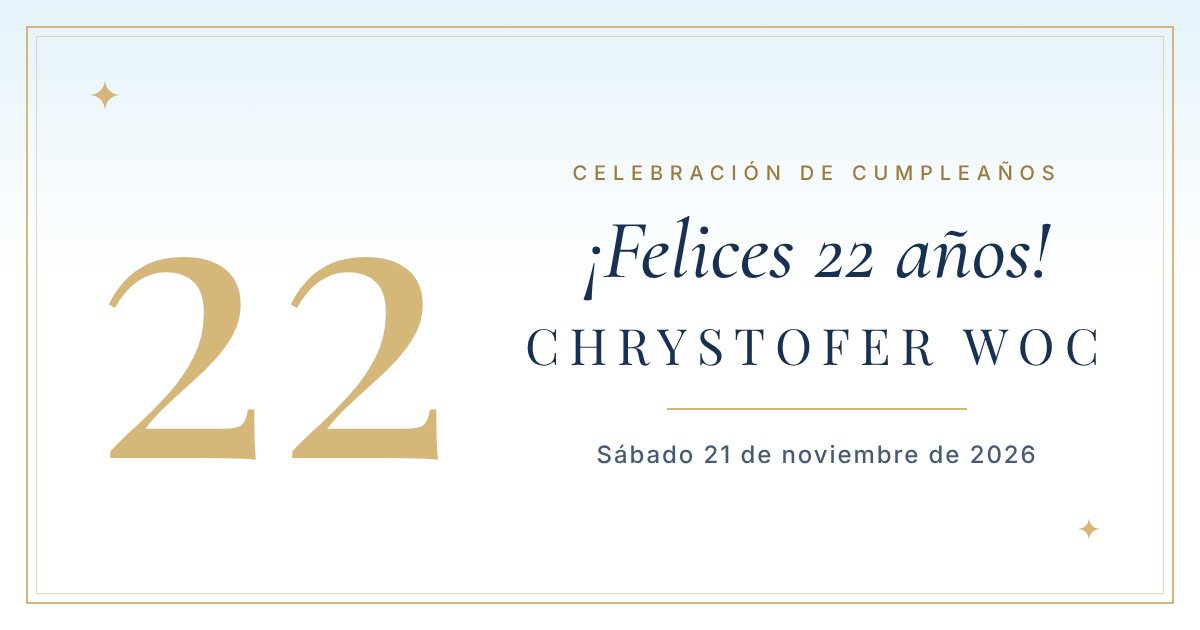
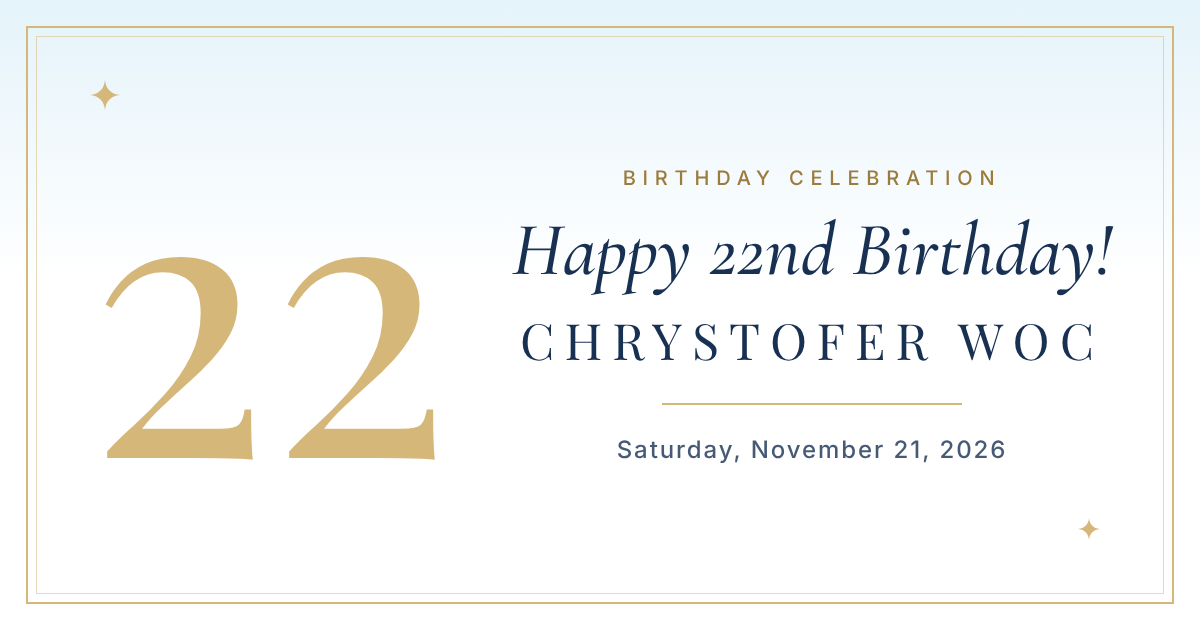
Traducir la invitación al inglés
- Todos los textos visibles, el cuento, botones, etiquetas y textos de
  accesibilidad pasan a inglés (EE. UU.); fecha y hora en ese formato.
- Metadatos e imagen de vista previa (Open Graph) en inglés; lang="en".
- El título y el mensaje que se envían al compartir, y el pie de página,
  pasan a ser textos configurables (shareTitle, shareMessage, footer).
- El editor y el README siguen en español.

Claude-Session: https://claude.ai/code/session_01TGcThTLcFVeeQvFGzjAhxg

diff --git a/src/components/Invitation.tsx b/src/components/Invitation.tsx
@@ -69,20 +69,20 @@ export default function Invitation({ content }: { content: Content }) {
         {/* 2 · LOS PRIMEROS AÑOS -------------------------------------- */}
         <section className="bg-cream px-5 py-20">
           <Reveal className="mx-auto max-w-xl text-center">
-            <p className="eyebrow">Los primeros años</p>
+            <p className="eyebrow">The early years</p>
             <h2 className="section-title mt-3">{t.earlyTitle}</h2>
             <Divider className="my-6" />
             <p className="lead">{t.earlyText}</p>
           </Reveal>
           <Reveal className="-mx-5 mt-10">
-            <Carousel photos={early} label="Fotografías de sus primeros años" hint={t.carouselHint} />
+            <Carousel photos={early} label="Photos from his early years" hint={t.carouselHint} />
           </Reveal>
         </section>
 
         {/* 3 · CRECIENDO ENTRE RECUERDOS ------------------------------ */}
         <section className="bg-white py-20">
           <Reveal className="mx-auto max-w-xl px-5 text-center">
-            <p className="eyebrow">Creciendo entre recuerdos</p>
+            <p className="eyebrow">Memories of growing up</p>
             <h2 className="section-title mt-3">{t.growingTitle}</h2>
             <Divider className="my-6" />
             <p className="lead">{t.growingText}</p>
@@ -117,7 +117,7 @@ export default function Invitation({ content }: { content: Content }) {
                       )}
                     </div>
                     <div className="mt-5 pb-10">
-                      <Carousel photos={list} label={`Fotografías: ${group.title}`} hint={t.carouselHint} />
+                      <Carousel photos={list} label={`Photos: ${group.title}`} hint={t.carouselHint} />
                     </div>
                   </Reveal>
                 </li>
@@ -129,13 +129,13 @@ export default function Invitation({ content }: { content: Content }) {
         {/* 4 · SUEÑOS Y NUEVOS CAMINOS -------------------------------- */}
         <section className="bg-gradient-to-b from-sky/45 via-cream to-cream py-20">
           <Reveal className="mx-auto max-w-xl px-5 text-center">
-            <p className="eyebrow">Sueños y nuevos caminos</p>
+            <p className="eyebrow">Dreams and new paths</p>
             <h2 className="section-title mt-3">{t.dreamsTitle}</h2>
             <Divider className="my-6" />
             <p className="lead">{t.dreamsText}</p>
           </Reveal>
           <Reveal className="mt-10">
-            <Carousel photos={current} label="Fotografías de su etapa actual" hint={t.carouselHint} />
+            <Carousel photos={current} label="Photos of him today" hint={t.carouselHint} />
           </Reveal>
           {t.story3 && (
             <Reveal className="mx-auto mt-14 max-w-md px-6">
@@ -186,13 +186,13 @@ export default function Invitation({ content }: { content: Content }) {
                 <p className="lead mx-auto max-w-sm">{t.inviteText}</p>
 
                 <dl className="mx-auto mt-9 max-w-xs space-y-6 text-center">
-                  <Detail icon={<CalendarDays className="h-5 w-5" />} label="Fecha" value={event.dateLabel} />
+                  <Detail icon={<CalendarDays className="h-5 w-5" />} label="Date" value={event.dateLabel} />
                   {event.time.trim() && (
-                    <Detail icon={<Clock className="h-5 w-5" />} label="Hora" value={event.time} />
+                    <Detail icon={<Clock className="h-5 w-5" />} label="Time" value={event.time} />
                   )}
                   <Detail
                     icon={<MapPin className="h-5 w-5" />}
-                    label="Lugar"
+                    label="Place"
                     value={event.venue}
                     extra={event.address}
                   />
@@ -208,9 +208,9 @@ export default function Invitation({ content }: { content: Content }) {
                     )}`}
                   >
                     <Navigation className="h-4 w-4" aria-hidden="true" />
-                    Cómo llegar
+                    Get directions
                   </a>
-                  <ShareButton title={`${celebrant.name} — ¡${celebrant.age} años!`} text={t.inviteTitle} />
+                  <ShareButton title={t.shareTitle} text={t.shareMessage} />
                 </div>
 
                 <p className="mt-10 font-serif text-xl italic leading-snug text-navy">{t.inviteClosing}</p>
@@ -218,7 +218,7 @@ export default function Invitation({ content }: { content: Content }) {
             </div>
           </Reveal>
           <p className="mt-10 text-center font-sans text-[0.7rem] uppercase tracking-[0.3em] text-navy/40">
-            {celebrant.name} · {celebrant.age} años
+            {t.footer}
           </p>
         </section>
       </main>
@@ -297,7 +297,7 @@ function ShareButton({ title, text }: { title: string; text: string }) {
   return (
     <button type="button" onClick={share} className="btn-outline">
       {copied ? <Check className="h-4 w-4" aria-hidden="true" /> : <Share2 className="h-4 w-4" aria-hidden="true" />}
-      <span aria-live="polite">{copied ? 'Enlace copiado' : 'Compartir invitación'}</span>
+      <span aria-live="polite">{copied ? 'Link copied' : 'Share invitation'}</span>
     </button>
   )
 }

diff --git a/src/components/Gallery.tsx b/src/components/Gallery.tsx
@@ -47,7 +47,7 @@ export function LightboxProvider({ children }: { children: ReactNode }) {
         <div
           role="dialog"
           aria-modal="true"
-          aria-label="Fotografía en pantalla completa"
+          aria-label="Full-screen photo"
           className="lb-in fixed inset-0 z-50 flex flex-col bg-[#0d1c30]/95"
           onClick={close}
           onTouchStart={(e) => (touch.current = { x: e.touches[0].clientX, y: e.touches[0].clientY })}
@@ -67,7 +67,7 @@ export function LightboxProvider({ children }: { children: ReactNode }) {
             <button
               autoFocus
               onClick={close}
-              aria-label="Cerrar"
+              aria-label="Close"
               className="flex h-12 w-12 items-center justify-center rounded-full text-white hover:bg-white/10"
             >
               <X className="h-7 w-7" />
@@ -77,21 +77,21 @@ export function LightboxProvider({ children }: { children: ReactNode }) {
             <img
               key={photo.id}
               src={photo.src}
-              alt={photo.title || 'Fotografía'}
+              alt={photo.title || 'Photo of Chrystofer'}
               className="lb-zoom max-h-full max-w-full object-contain"
               onClick={(e) => e.stopPropagation()}
             />
             {many && (
               <>
                 <button
-                  aria-label="Fotografía anterior"
+                  aria-label="Previous photo"
                   onClick={(e) => (e.stopPropagation(), step(-1))}
                   className="absolute left-2 top-1/2 flex h-12 w-12 -translate-y-1/2 items-center justify-center rounded-full bg-black/30 text-white hover:bg-black/50"
                 >
                   <ChevronLeft />
                 </button>
                 <button
-                  aria-label="Fotografía siguiente"
+                  aria-label="Next photo"
                   onClick={(e) => (e.stopPropagation(), step(1))}
                   className="absolute right-2 top-1/2 flex h-12 w-12 -translate-y-1/2 items-center justify-center rounded-full bg-black/30 text-white hover:bg-black/50"
                 >
@@ -151,12 +151,12 @@ export function PhotoFrame({
       <button
         type="button"
         onClick={() => open(photos, index)}
-        aria-label={`Ampliar fotografía${photo.title ? `: ${photo.title}` : ''}`}
+        aria-label={`Enlarge photo${photo.title ? `: ${photo.title}` : ''}`}
         className="frame block w-full cursor-zoom-in transition-transform duration-200 active:scale-[0.98]"
       >
         <img
           src={photo.src}
-          alt={photo.title || 'Fotografía de Chrystofer'}
+          alt={photo.title || 'Photo of Chrystofer'}
           width={photo.width}
           height={photo.height}
           loading={eager ? 'eager' : 'lazy'}
@@ -255,7 +255,7 @@ export function Carousel({
         ))}
       </div>
       <div className="mt-2 flex items-center justify-center gap-4 px-4">
-        <button type="button" onClick={() => go(active - 1)} disabled={active === 0} aria-label="Fotografía anterior" className={arrow}>
+        <button type="button" onClick={() => go(active - 1)} disabled={active === 0} aria-label="Previous photo" className={arrow}>
           <ChevronLeft className="h-5 w-5" />
         </button>
         <div className="flex items-center gap-1.5" aria-hidden="true">
@@ -270,7 +270,7 @@ export function Carousel({
           type="button"
           onClick={() => go(active + 1)}
           disabled={active === photos.length - 1}
-          aria-label="Fotografía siguiente"
+          aria-label="Next photo"
           className={arrow}
         >
           <ChevronRight className="h-5 w-5" />
@@ -289,7 +289,7 @@ export function Carousel({
         </p>
       )}
       <p className="sr-only" aria-live="polite">
-        Fotografía {active + 1} de {photos.length}
+        Photo {active + 1} of {photos.length}
       </p>
     </div>
   )

diff --git a/index.html b/index.html
@@ -1,23 +1,23 @@
 <!doctype html>
-<html lang="es">
+<html lang="en">
   <head>
     <meta charset="UTF-8" />
     <meta name="viewport" content="width=device-width, initial-scale=1, viewport-fit=cover" />
-    <title>Chrystofer Woc — ¡22 años!</title>
-    <meta name="description" content="22 años de recuerdos, sueños y momentos inolvidables. Acompáñanos a celebrar el cumpleaños de Chrystofer Woc." />
+    <title>Chrystofer Woc Turns 22!</title>
+    <meta name="description" content="22 years of memories, dreams, and unforgettable moments. Join us in celebrating Chrystofer Woc’s birthday." />
     <meta name="theme-color" content="#F8F6F2" />
     <link rel="icon" type="image/svg+xml" href="./favicon.svg" />
 
     <meta property="og:type" content="website" />
-    <meta property="og:locale" content="es_GT" />
-    <meta property="og:title" content="Chrystofer Woc — ¡22 años!" />
-    <meta property="og:description" content="22 años de recuerdos, sueños y momentos inolvidables. Sábado 21 de noviembre de 2026." />
+    <meta property="og:locale" content="en_US" />
+    <meta property="og:title" content="Chrystofer Woc Turns 22!" />
+    <meta property="og:description" content="22 years of memories, dreams, and unforgettable moments. Saturday, November 21, 2026." />
     <meta property="og:url" content="%VITE_SITE_URL%" />
     <meta property="og:image" content="%VITE_SITE_URL%og-image.png" />
     <meta property="og:image:type" content="image/png" />
     <meta property="og:image:width" content="1200" />
     <meta property="og:image:height" content="630" />
-    <meta property="og:image:alt" content="Chrystofer Woc — ¡22 años!" />
+    <meta property="og:image:alt" content="Chrystofer Woc Turns 22!" />
     <meta name="twitter:card" content="summary_large_image" />
   </head>
   <body>

diff --git a/src/editor/Editor.tsx b/src/editor/Editor.tsx
@@ -54,6 +54,9 @@ const TEXT_LABELS: Record<string, string> = {
   inviteTitle: 'Invitación · título',
   inviteText: 'Invitación · texto',
   inviteClosing: 'Invitación · mensaje final',
+  shareTitle: 'Compartir · título al enviar la invitación',
+  shareMessage: 'Compartir · mensaje que acompaña al enlace',
+  footer: 'Pie de página',
 }
 
 type Tab = 'fotos' | 'textos' | 'vista' | 'exportar'

diff --git a/src/components/ui.tsx b/src/components/ui.tsx
@@ -59,7 +59,7 @@ export function WhiteCoat({ className = '' }: { className?: string }) {
       strokeLinecap="round"
       strokeLinejoin="round"
       role="img"
-      aria-label="Ilustración de una bata blanca con estetoscopio"
+      aria-label="Illustration of a white coat with a stethoscope"
     >
       <g stroke="#183153" strokeWidth="1.6">
         <path
